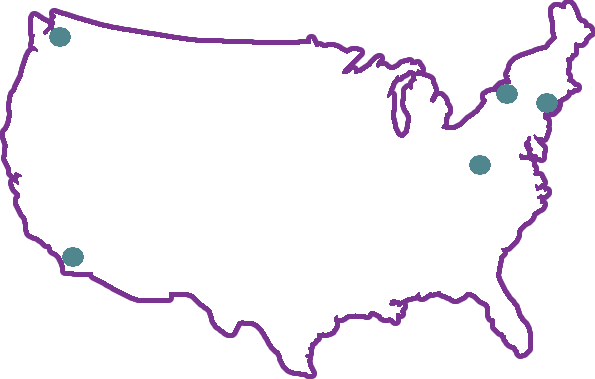
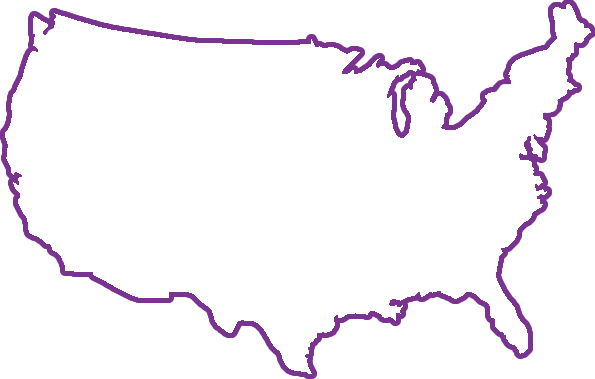
Started on media queries

diff --git a/react-redo/src/App.css b/react-redo/src/App.css
@@ -173,6 +173,7 @@ h2 {
 
 .map-container {
   text-align: center;
+  justify-content: center;
   min-height: 600px;
 }
 
@@ -187,11 +188,18 @@ h2 {
 
 .map-col {
   padding-top: 3.5em;
+  width: fit-content;
+  max-width: 100%;
 }
 
 .map {
   position: relative;
   width: fit-content;
+}
+
+.map img {
+  width: 100%;
+  min-width: 500px;
 }
 
 .city-label {
@@ -209,28 +217,28 @@ h2 {
 }
 
 #seattle {
-  top: 1.5em;
-  left: 4.5em;
+  top: 6.5%;
+  left: 5.5%;
 }
 
 #san-diego {
-  top: 15em;
-  left: 5.5em;
+  top: 63.5%;
+  left: 7%;
 }
 
 #rochester {
-  top: 4.8em;
-  left: 25.5em;
+  top: 19.8%;
+  left: 74.5%;
 }
 
 #charlottesville {
-  top: 9.4em;
-  left:22.5em;
+  top: 40%;
+  left: 70%;
 }
 
 #new-milford {
-  top: 5.5em;
-  left: 35em;
+  top: 23.5%;
+  left: 90.5%;
 }
 
 /* Projects section styling */
@@ -294,6 +302,11 @@ h2 {
   align-items: center;
   justify-content: space-between;
   padding: 0;
+  width: 100%;
+}
+
+#contact .row {
+  width: 100%;
 }
 
 .tagline, .contact-info {
@@ -313,14 +326,15 @@ h2 {
 
 .contact-info .row {
   margin-bottom: 1.8em;
-  margin-left: var(--section-top-padding);
+  padding-left: var(--section-top-padding);
+  min-width: 395px;
 }
 
 .contact-info .row h6 {
   font-family: var(--main-font);
   font-size: 20px;
   font-weight: 400;
-  margin-left: var(--section-top-padding);
+  padding-left: var(--section-top-padding);
 }
 
 .contact-info svg {

diff --git a/react-redo/src/Media.css b/react-redo/src/Media.css
@@ -1,0 +1,94 @@
+
+@media only screen and (max-width: 865px) {
+  .intro {
+    margin-top: 20vh;
+  }
+
+  .map-container {
+    padding: 0;
+  }
+}
+
+@media only screen and (max-width: 680px) {
+
+  .nav-parent {
+    display: flex;
+    flex-direction: row;
+    justify-content: flex-start;
+  }
+
+  .nav-logo {
+    height: 80%;
+    margin-right: 25px;
+  }
+
+  .nav-parent .nav {
+    flex-direction: column;
+    align-items: flex-start;
+  }
+
+  .nav-link {
+    padding-left: 0;
+    padding-right: 0;
+  }
+
+  .intro {
+    margin-top: 10vh;
+  }
+
+  .intro h1 {
+    font-size: 62px;
+  }
+
+  .intro h4 {
+    font-size: 21px;
+  }
+
+  .map img {
+    min-width: 300px;
+  }
+
+  .city-label {
+    font-size: 10px;
+  }
+}
+
+@media only screen and (max-width: 576px) {
+
+  * {
+    padding-left: 0;
+    padding-right: 0;
+  }
+
+  p {
+    font-size: 14px;
+  }
+
+  a {
+    font-size: 16px;
+  }
+
+  .intro h1 {
+    font-size: 32px;
+  }
+
+  .intro h4 {
+    font-size: 16px;
+  }
+
+  .continue-arrow {
+    margin-top: 0.5em;
+    margin-left: 2em;
+    width: 40px;
+  }
+
+  .my-info li {
+    font-size: 14px;
+  }
+
+  .image-item {
+    height: 23vh;
+  }
+
+}
+

diff --git a/react-redo/src/sections/Contact.js b/react-redo/src/sections/Contact.js
@@ -10,17 +10,17 @@ export default function Contact() {
     <div id='contact' className='section-layout'>
       <h2 className='section-header'>Contact Me</h2>
       <Row>
-        <Col xs='6' className='tagline'>
+        <Col xs='12' md='6' className='tagline'>
           <img src='https://avatars2.githubusercontent.com/u/7768121?s=460&u=32c0fc6cc61163b9adbb7ec34511245465626461&v=4' alt='Developer Melissa Young' className='profile-pic' />
           <h4>Looking for a developer??</h4>
           <h4 className='highlight'>I'm looking for a career!!</h4>
         </Col>
-        <Col xs='6' className='contact-info'>
+        <Col xs='12' md='6' className='contact-info'>
           <Row>
             <Col xs='1'>
               <FontAwesomeIcon icon={faEnvelope} className='icon' />
             </Col>
-            <Col md='10'>
+            <Col xs='10'>
               <h6>melissadcy@gmail.com</h6>
             </Col>
           </Row>

diff --git a/react-redo/src/components/Map.js b/react-redo/src/components/Map.js
@@ -51,7 +51,7 @@ export default function Map() {
 
   return(
     <Row className='map-container'>
-      <Col xs='12' xl='6' className='map-col'>
+      <Col lg='12'  xl='6' className='map-col'>
         <div className='map'>
           <img src={ CityMap } alt="map of us with points of interest" />
           {
@@ -68,7 +68,7 @@ export default function Map() {
           }
         </div>
       </Col>
-      <Col xs='12' xl='6' className='city-info'>
+      <Col lg='12' xl='6' className='city-info'>
       { currentCity.name ? 
         (
           <Fade in={fadeIn} tag='div'>

diff --git a/react-redo/src/components/Navigation.js b/react-redo/src/components/Navigation.js
@@ -5,9 +5,9 @@ import BlueLogo from '../assets/siteLogoBlue.png';
 export default function Navigation() {
 
   return(
-    <div>
-      <Nav className='nav-parent'>
-        <img src={ BlueLogo } alt="Site Logo" className='nav-logo'/>
+    <div className='nav-parent'>
+      <img src={ BlueLogo } alt="Site Logo" className='nav-logo'/>  
+      <Nav>
         <NavItem>
           <NavLink href="#about">About</NavLink>
         </NavItem>

diff --git a/react-redo/src/App.js b/react-redo/src/App.js
@@ -1,5 +1,6 @@
 import React, { useState } from 'react';
 import './App.css';
+import './Media.css';
 import useScrollPosition from './hooks/useScrollPosition';
 import StickyHeader from './components/StickyHeader';
 import Landing from './sections/Landing';
